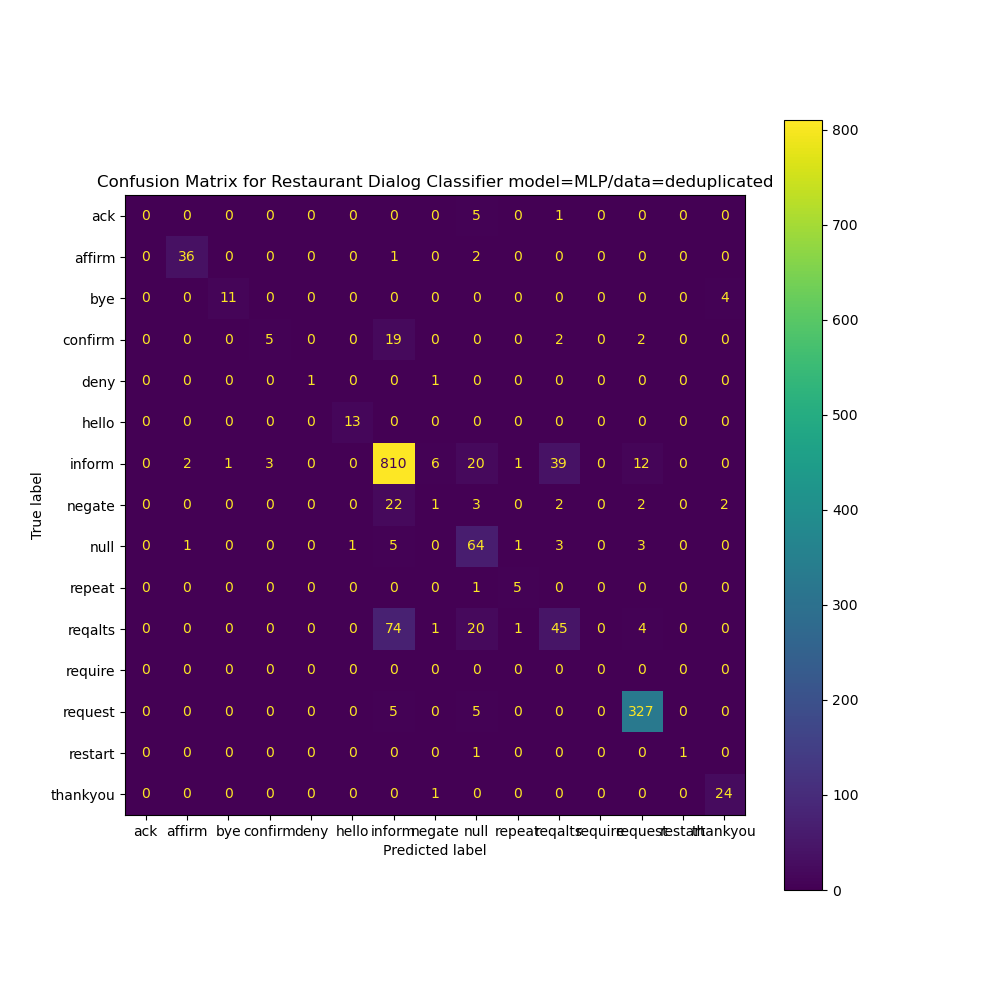
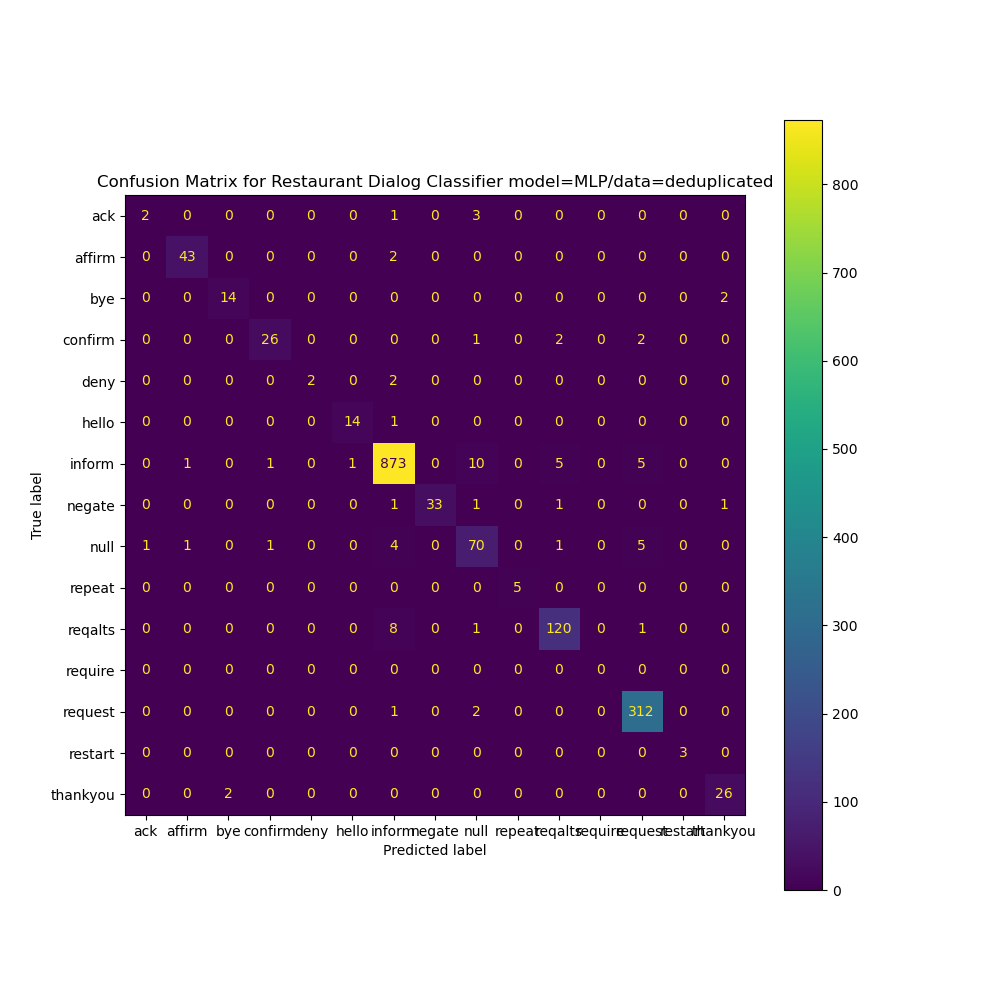
Delete stopwords

diff --git a/ass_1a/preprocessing.py b/ass_1a/preprocessing.py
@@ -51,7 +51,7 @@ def load_data(filename:str, mode:str) -> tuple:
     print(mode,"Splitting into training set of size ", len(train), "and test set of size ", len(test))
     
     vectorizer = CountVectorizer(
-        stop_words="english"
+
     )
     result["X_train"] = vectorizer.fit_transform(train["Text"])
     
